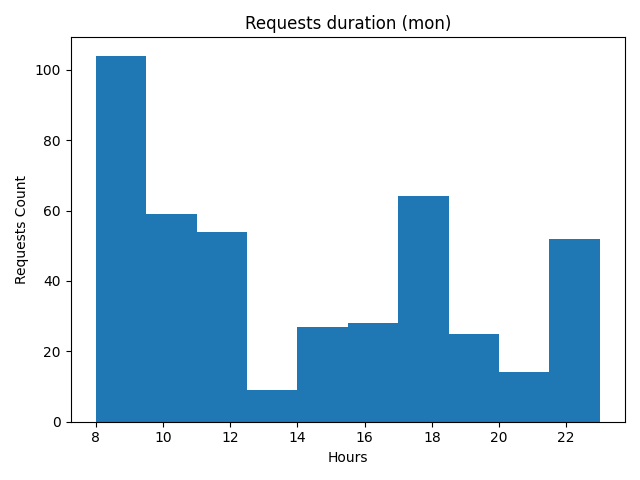
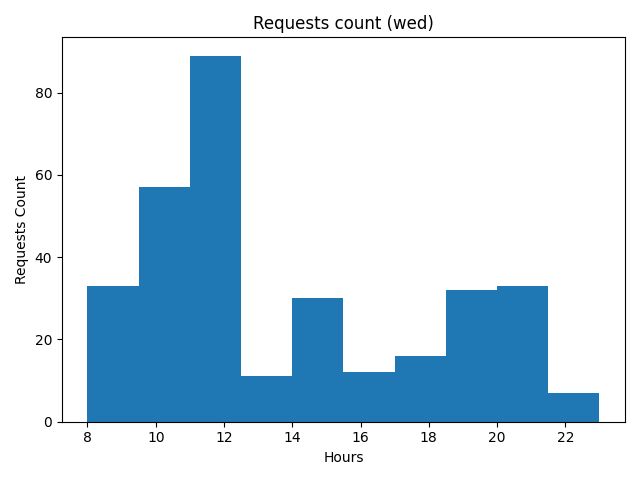
Workload by hours and rooms subplots

diff --git a/analysis.py b/analysis.py
@@ -154,11 +154,29 @@ def draw_requests_count_distribution(day: Day):
     df.rename(columns={'current_hour': 'requests_count'}, inplace=True)
 
     df[['requests_count']].plot.hist(
-        title=f'Requests duration ({day.value})', legend=False,
+        title=f'Requests count ({day.value})', legend=False,
         xlabel='Hours', ylabel='Requests Count')
     
     plt.tight_layout()
     plt.savefig('report/req_count_distribution.png')
     plt.show()
 
+def workload_by_hours_and_rooms(day: Day, room_count_x = 2, room_count_y = 3):
+    df = get_rooms_workload_by_hours(day)
 
+    fig, axes = plt.subplots(room_count_x, room_count_y)
+
+    rooms = list(df['room_name'].unique())[:room_count_x * room_count_y]
+
+    for x in range(room_count_x):
+        for y in range(room_count_y):
+            room_name = rooms[y * room_count_x + x]
+            df.loc[df['room_name'] == room_name].plot(
+                    ax=axes[x, y], x='current_hour', y='workload', 
+                    sharex=False, sharey=False, title=room_name,
+                    xlabel='hours', legend=None, figsize=(10, 6))
+    
+    fig.suptitle(f'Requests count by hours and rooms ({day.value})')
+    fig.tight_layout()
+    fig.savefig('report/req_count_by_hours_and_rooms.png')
+    plt.show()
